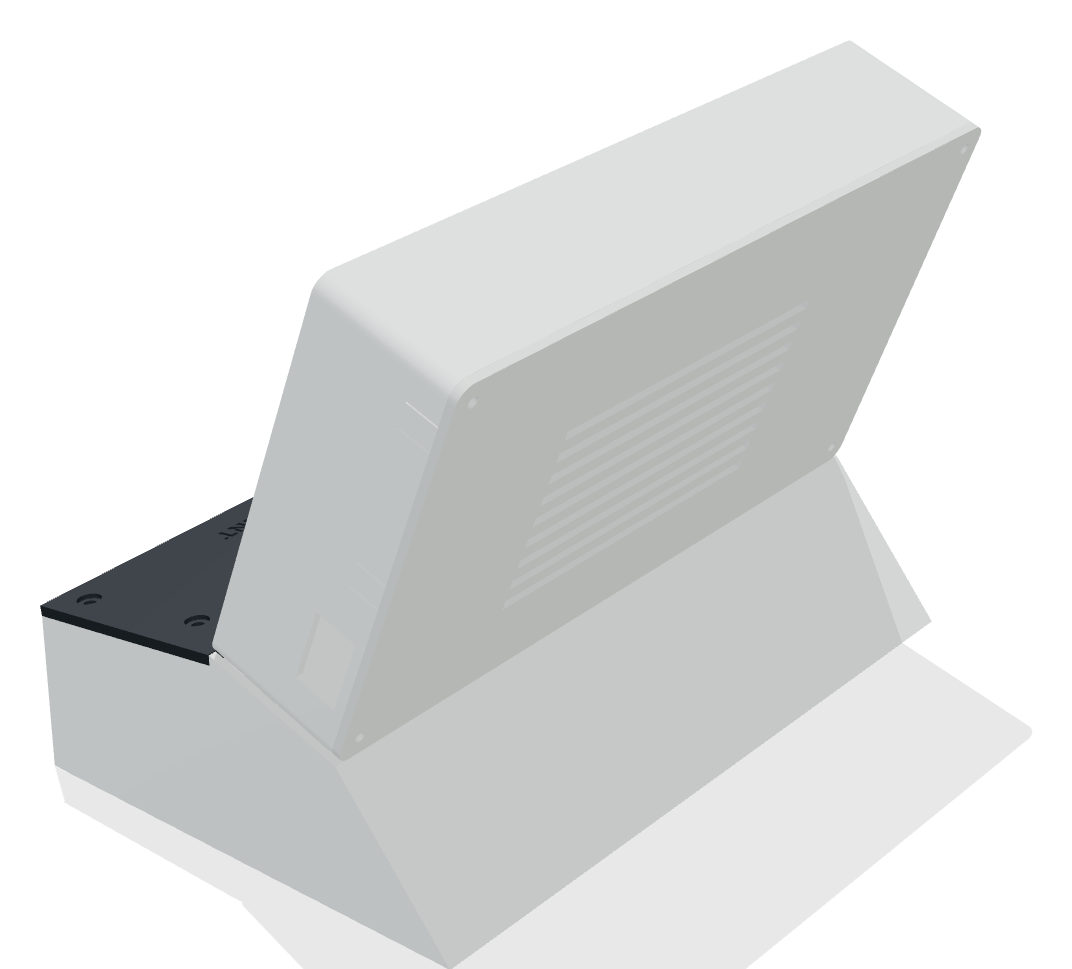
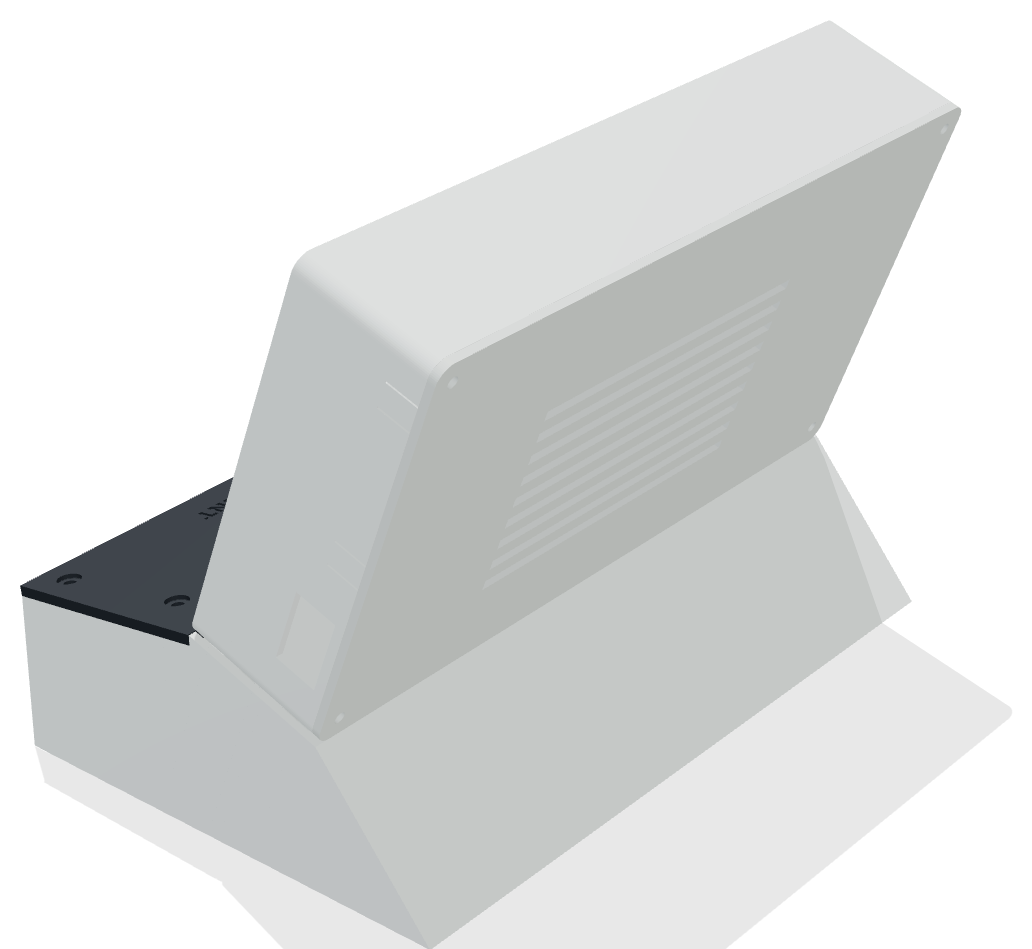
Green PRINT button in the case renders; main-screen image with the label upright

diff --git a/README.md b/README.md
@@ -5,12 +5,12 @@ A stand-alone voice-to-label printer built on a Raspberry Pi 5. Hold **TALK** an
 Speech recognition runs entirely on the Pi with [Moonshine](https://github.com/moonshine-ai/moonshine), so there's no cloud service, no fee, and no internet needed after setup.
 
 <p align="center">
-  <img src="case/docs/case-front.png" alt="The printed case: a 7-inch screen reclined above a dark deck with a red TALK button and a yellow PRINT button" width="520">
+  <img src="case/docs/case-front.png" alt="The printed case: a 7-inch screen reclined above a dark deck with a red TALK button and a green PRINT button" width="520">
 </p>
 
 | Main screen | Setup screen |
 |---|---|
-| <img src="labelbox/docs/screen.png" alt="Main screen: Hold to talk and PRINT buttons across the top, the label preview on the left, the text box on the right" width="400"> | <img src="labelbox/docs/setup.png" alt="Setup screen: Date and QR toggles with text fields, copies, brightness and print hold buttons" width="400"> |
+| <img src="labelbox/docs/screen.png" alt="Main screen: Hold to talk and PRINT buttons across the top, the text box on the left, the label preview on the right" width="400"> | <img src="labelbox/docs/setup.png" alt="Setup screen: Date and QR toggles with text fields, copies, brightness and print hold buttons" width="400"> |
 
 <p align="center">
   <img src="labelbox/docs/sample-label.png" alt="A sample 3 by 2 inch label with text, a QR code and the date" width="300"><br>
